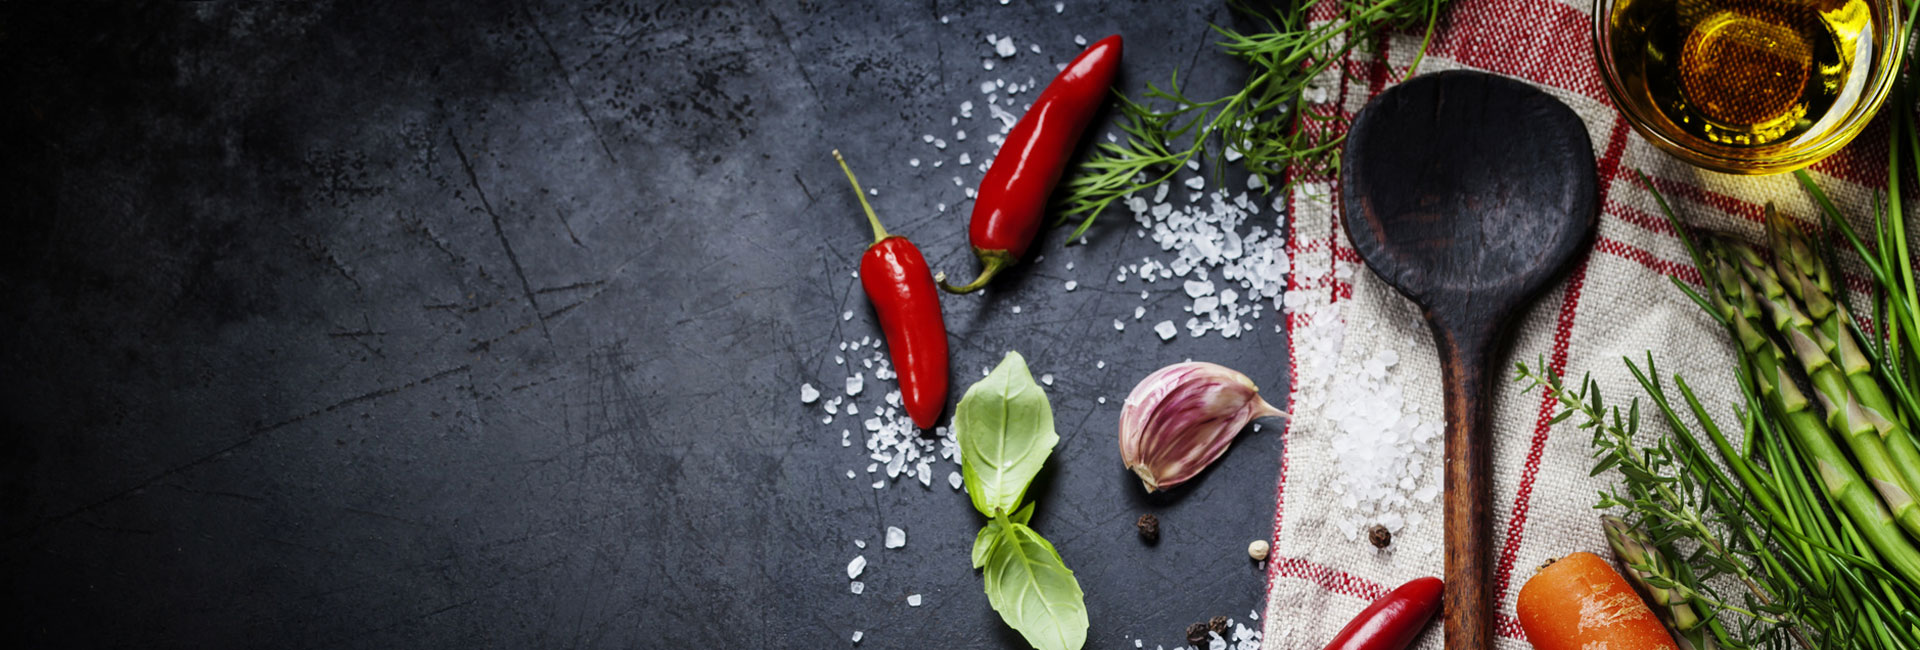
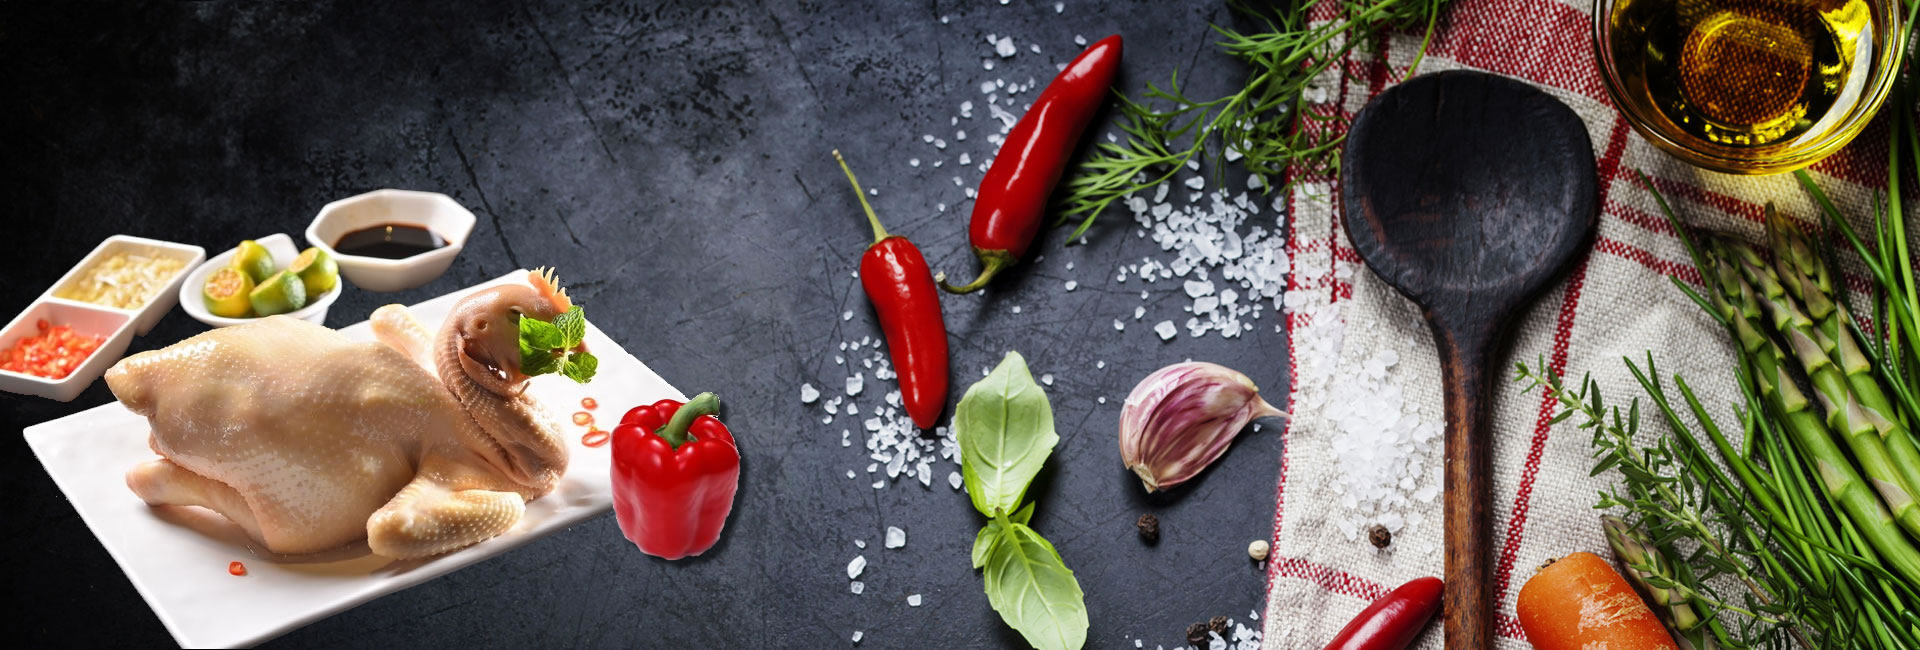
v1.0

Changed region(s): [[0.0, 0.2769, 0.4062, 1.0]]

diff --git a/index.html b/index.html
@@ -108,7 +108,7 @@
 									data-y="180"
 									data-speed="500"
 									data-start="1000"
-									data-easing="easeOutQuad">The <span class="text-default">Restaurant</span><br> Boost your online presence
+									data-easing="easeOutQuad"><span class="text-default">醉南鸡</span><br> 做最好的海南文昌鸡
 								</div>	
 
 								<!-- LAYER NR. 2 -->
@@ -127,7 +127,7 @@
 									data-speed="500"
 									data-start="1300"
 									data-easing="easeOutQuad"
-									data-endspeed="600">Lorem ipsum dolor sit amet, consectetur adipisicing elit. <br> Nesciunt, maiores, aliquid. Repellat eum numquam aliquid culpa offici, <br> tenetur fugiat dolorum sapiente eligendi...
+									data-endspeed="600">专注海南文昌鸡菜品研发、食材供应，文昌鸡门店连锁销售，<br/>致力于打造海南文昌鸡特色精品菜系的现代化餐饮管理公司。
 								</div>
 
 								<!-- LAYER NR. 4 -->
@@ -137,7 +137,7 @@
 									data-speed="500"
 									data-start="1600"
 									data-easing="easeOutQuad"
-									data-endspeed="600"><a href="#" class="btn btn-dark btn-default btn-animated">See Our Menu <i class="fa fa-arrow-right"></i></a>
+									data-endspeed="600">
 								</div>
 
 								</li>
@@ -190,7 +190,7 @@
 									data-y="200"
 									data-speed="500"
 									data-start="1000"
-									data-easing="easeOutQuad"><span class="logo-font">Special Dishes</span>
+									data-easing="easeOutQuad"><span class="logo-font">特色菜品</span>
 								</div>	
 
 								<!-- LAYER NR. 2 -->
@@ -209,7 +209,7 @@
 									data-speed="500"
 									data-start="1300"
 									data-easing="easeOutQuad"
-									data-endspeed="600">Lorem ipsum dolor sit amet, consectetur adipisicing elit.<br> Nesciunt, maiores, aliquid. Repellat eum numquam aliquid culpa offici,<br> tenetur fugiat dolorum sapiente eligendi
+									data-endspeed="600">推陈出新，不仅有白切鸡，盐焗鸡，椰子鸡等多种招牌菜，<br/>同时仍不断在研发蒜香鸡，糟粕醋火锅等特色菜品
 								</div>
 
 								<!-- LAYER NR. 4 -->
@@ -523,7 +523,7 @@
 								<span class="icon default-bg circle"><i class="fa fa-diamond"></i></span>
 								<h3>文昌鸡供应</h3>
 								<div class="separator clearfix"></div>
-								<p>Voluptatem ad provident non repudiandae beatae cupiditate amet reiciendis lorem ipsum dolor sit amet, consectetur.</p>
+								<p>原产地直发，采用空运，快递，同城冷链等物流渠道，为餐厅，酒楼等餐饮场所专业供应文昌鸡。</p>
 							</div>
 						</div>
 						<div class="col-md-4">
@@ -531,7 +531,7 @@
 								<span class="icon default-bg circle"><i class="fa fa-connectdevelop"></i></span>
 								<h3>特色菜品零售</h3>
 								<div class="separator clearfix"></div>
-								<p>Iure sequi unde hic. Sapiente quaerat sequi inventore veritatis cumque lorem ipsum dolor sit amet, consectetur.</p>
+								<p>同时拥有实体店，以及微信等在线销售渠道，顾客可以采取电话订购，微信下单等多种购买方式，深圳同城热食现做派送上门。</p>
 							</div>
 						</div>
 						<div class="col-md-4">
@@ -539,7 +539,7 @@
 								<span class="icon default-bg circle"><i class="fa icon-snow"></i></span>
 								<h3>代理合作加盟</h3>
 								<div class="separator clearfix"></div>
-								<p>Inventore dolores aut laboriosam cum consequuntur delectus sequi lorem ipsum dolor sit amet, consectetur.</p>
+								<p>不断研究各种标准化菜品，和挖掘多种供应链渠道，提供多种代理运营合作方式，可零成本加盟。</p>
 							</div>
 						</div>
 					</div>
